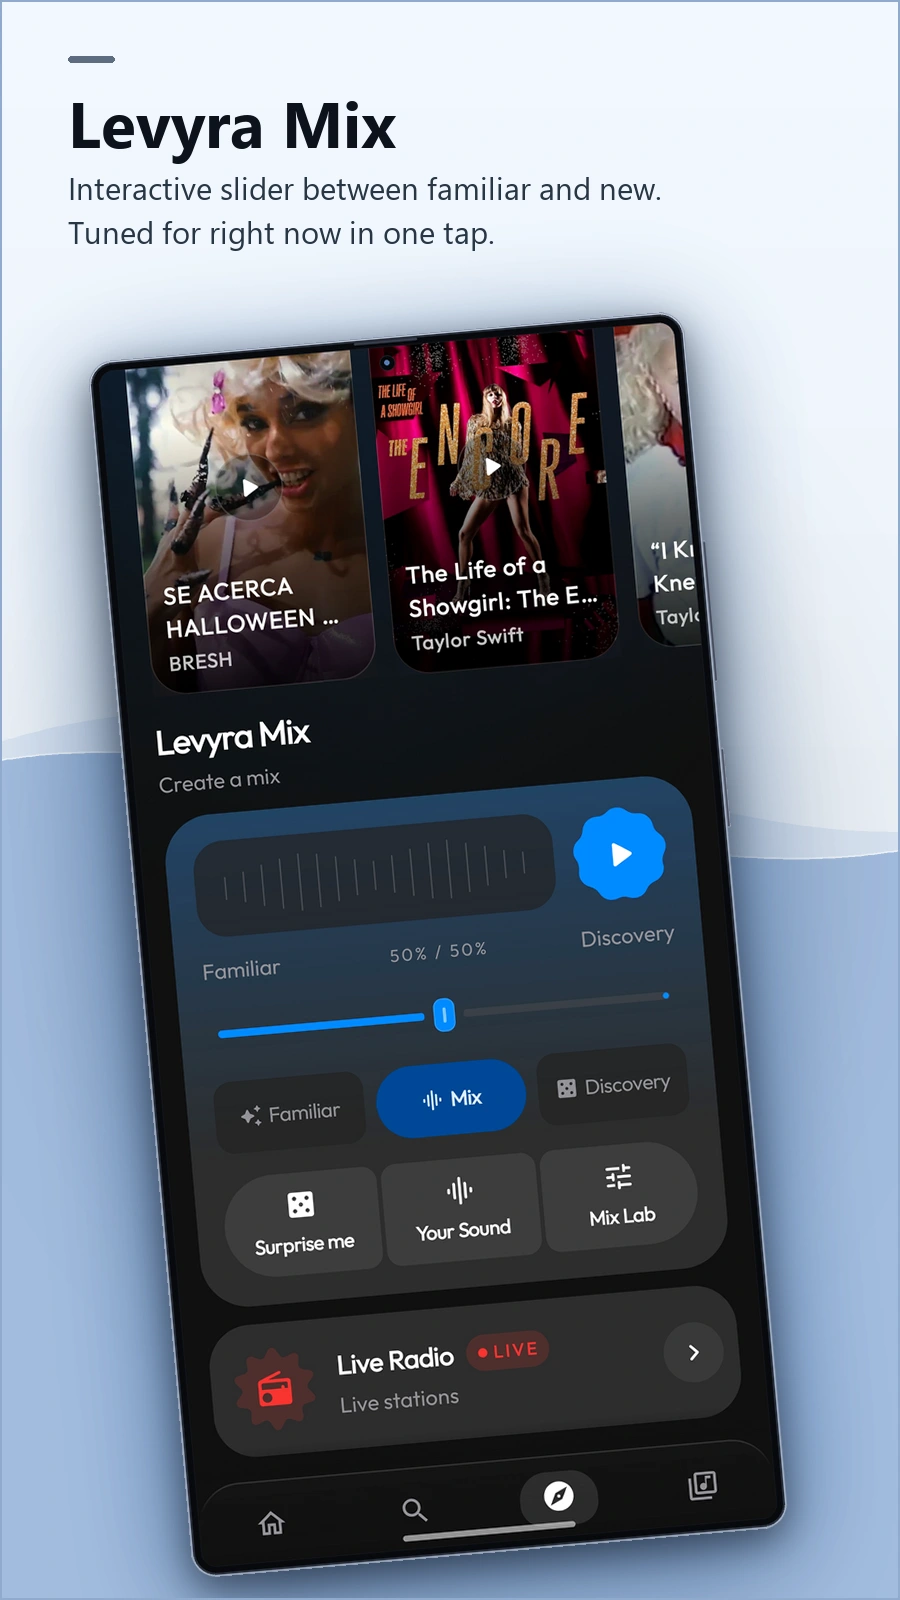
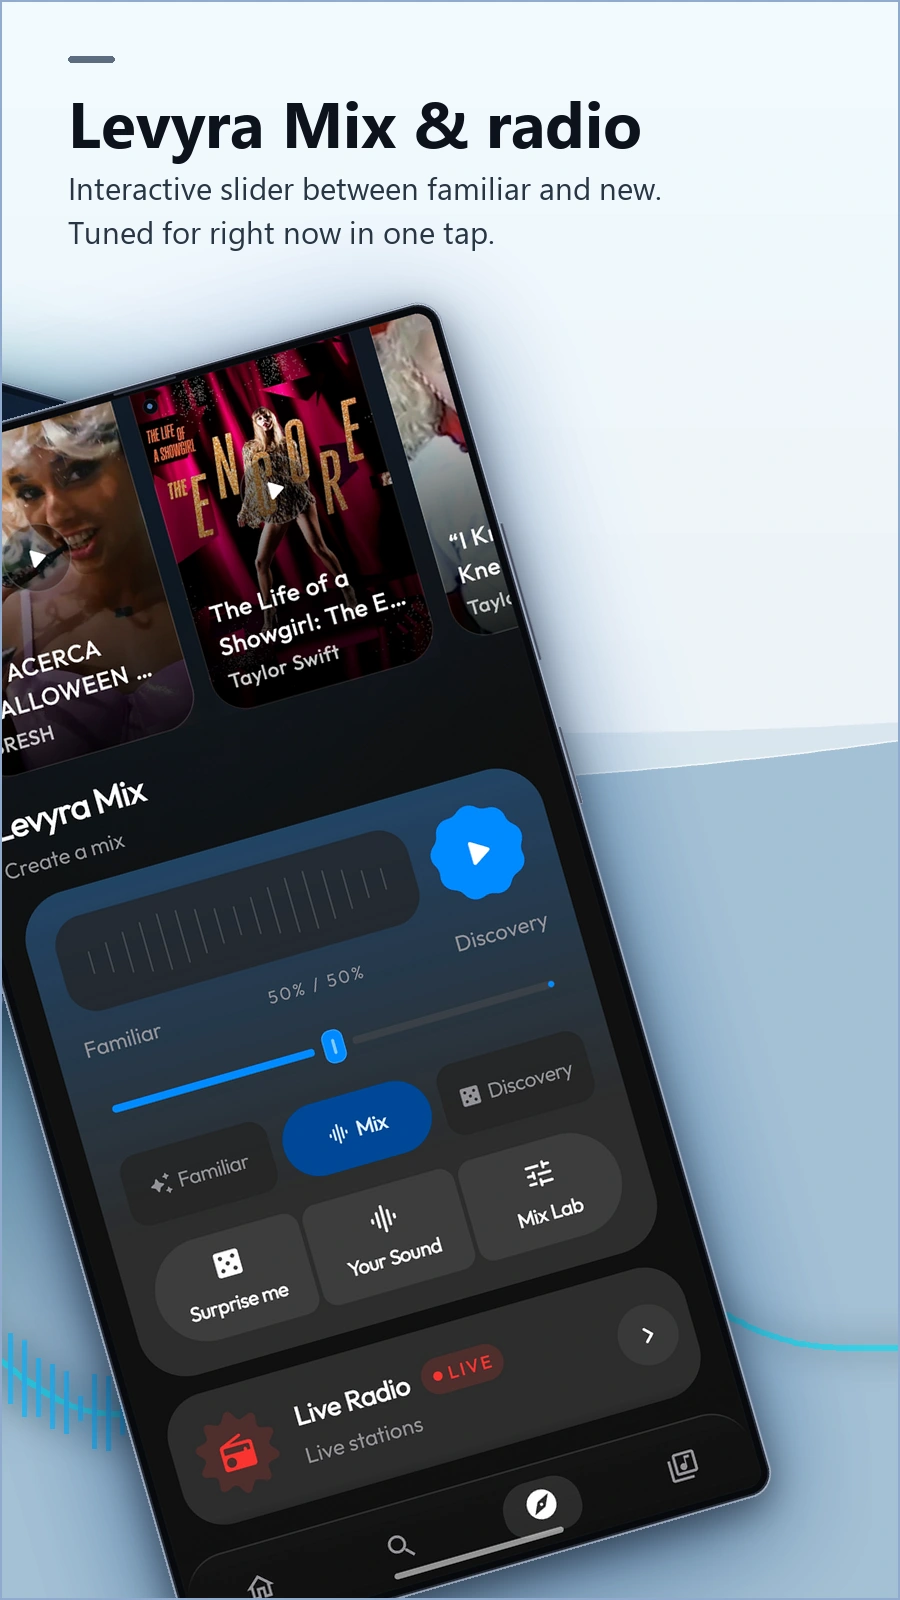
docs(readme): create 3D crossover diptych with glowing soundwave for Explore and Mix

diff --git a/scripts/generate_showcase_assets.py b/scripts/generate_showcase_assets.py
@@ -487,69 +487,111 @@ def generate_explore_mix_card(card_w, card_h):
     bg.convert("RGB").save(out_path, "WEBP", quality=94, method=4)
     print(f"Generated Dual Explore & Mix Card: {out_path}")
 
-def generate_explore_mix_duo(card_w, card_h):
+def generate_explore_mix_crossover(card_w, card_h):
     s1_path = resolve_screenshot_path("Screenshot_20261010_132210_LEVYRA.jpg")
     s2_path = resolve_screenshot_path("Screenshot_20261010_132217_LEVYRA.jpg")
     if not s1_path or not s2_path:
-        print("Skipping explore mix duo: missing screenshots")
+        print("Skipping explore mix crossover: missing screenshots")
         return
+
+    gutter = 20
+    pano_w = card_w * 2 + gutter
+    pano_h = card_h
 
     C_SEAFOAM = ((238, 246, 248), (166, 198, 202), (145, 188, 192))
     C_SAPPHIRE = ((238, 244, 252), (162, 188, 222), (140, 175, 215))
 
-    # Card 05: Explore & discover
-    bg5 = create_delicate_bg(card_w, card_h, C_SEAFOAM[0], C_SEAFOAM[1], C_SEAFOAM[2], y_start=850, y_end=760)
-    draw5 = ImageDraw.Draw(bg5)
-    draw_accent_pill(draw5, 68, 56, C_SEAFOAM[1])
-    draw5.text((68, 78), "Explore & discover", font=get_font(64, bold=True), fill=(12, 18, 28, 255))
-    draw5.multiline_text(
-        (68, 166),
+    pano_bg = create_delicate_bg(
+        pano_w,
+        pano_h,
+        top_tint=(238, 245, 250),
+        accent_tone=(164, 192, 212),
+        glow_tone=(142, 180, 205),
+        y_start=860,
+        y_end=740,
+    )
+
+    eq_layer = Image.new("RGBA", (pano_w, pano_h), (0, 0, 0, 0))
+    eq_draw = ImageDraw.Draw(eq_layer)
+
+    xs = np.linspace(0, pano_w, 400)
+    ys_center = 1350 + 55 * np.sin(xs * 0.007) + 22 * np.cos(xs * 0.018 + 0.8)
+    pts = [(int(x), int(y)) for x, y in zip(xs, ys_center)]
+    eq_draw.line(pts, fill=(0, 225, 245, 160), width=6)
+
+    np.random.seed(55)
+    for bx in range(650, 1170, 14):
+        dist_from_seam = abs(bx - 910)
+        max_h = max(20, int(110 - dist_from_seam * 0.28))
+        bh = np.random.randint(15, max_h)
+        by = int(1350 + 55 * np.sin(bx * 0.007) + 22 * np.cos(bx * 0.018 + 0.8))
+        r = int(0 + 40 * (bx / pano_w))
+        g = int(220 - 70 * (bx / pano_w))
+        b = 250
+        eq_draw.line([(bx, by - bh // 2), (bx, by + bh // 2)], fill=(r, g, b, 190), width=5)
+
+    eq_glow = eq_layer.filter(ImageFilter.GaussianBlur(16))
+    pano_bg = Image.alpha_composite(pano_bg, eq_glow)
+    pano_bg = Image.alpha_composite(pano_bg, eq_layer)
+
+    with Image.open(s1_path) as src1:
+        phone_exp = create_clean_phone(src1, target_height=1220)
+    with Image.open(s2_path) as src2:
+        phone_mix = create_clean_phone(src2, target_height=1220)
+
+    rot_exp = phone_exp.rotate(-16, resample=Image.Resampling.BICUBIC, expand=True)
+    rot_mix = phone_mix.rotate(16, resample=Image.Resampling.BICUBIC, expand=True)
+
+    exp_x = 160
+    exp_y = 260
+    mix_x = card_w + gutter - 150
+    mix_y = 295
+
+    g_exp, gp_exp = create_colored_glow(rot_exp, (0, 215, 235), blur=60, opacity=80, offset_y=18)
+    g_mix, gp_mix = create_colored_glow(rot_mix, (25, 130, 250), blur=65, opacity=85, offset_y=20)
+
+    pano_bg.paste(g_exp, (exp_x - gp_exp, exp_y - gp_exp), g_exp)
+    paste_phone_with_studio_depth(pano_bg, rot_exp, exp_x, exp_y)
+
+    pano_bg.paste(g_mix, (mix_x - gp_mix, mix_y - gp_mix), g_mix)
+    paste_phone_with_studio_depth(pano_bg, rot_mix, mix_x, mix_y)
+
+    pdraw = ImageDraw.Draw(pano_bg)
+
+    c1_tx, c1_ty = 68, 56
+    draw_accent_pill(pdraw, c1_tx, c1_ty, C_SEAFOAM[1])
+    pdraw.text((c1_tx, c1_ty + 22), "Explore & discover", font=get_font(64, bold=True), fill=(12, 18, 28, 255))
+    pdraw.multiline_text(
+        (c1_tx, c1_ty + 110),
         "Live radio, fresh currents, and\nsounds crafted for every moment.",
         font=get_font(31),
         fill=(40, 54, 68, 255),
         spacing=10,
     )
 
-    with Image.open(s1_path) as src1:
-        phone1 = create_clean_phone(src1, target_height=1200)
-    rot1 = phone1.rotate(-5, resample=Image.Resampling.BICUBIC, expand=True)
-    glow1, gp1 = create_colored_glow(rot1, (0, 205, 230), blur=55, opacity=70, offset_y=16)
-    px1 = (card_w - rot1.width) // 2 + 10
-    py1 = 310
-    bg5.paste(glow1, (px1 - gp1, py1 - gp1), glow1)
-    paste_phone_with_studio_depth(bg5, rot1, px1, py1)
-
-    border_col5 = tuple(max(0, int(C_SEAFOAM[1][i] - 18)) for i in range(3))
-    ImageDraw.Draw(bg5).rectangle((0, 0, card_w - 1, card_h - 1), outline=(*border_col5, 90), width=2)
-    bg5.convert("RGB").save(os.path.join(OUT_CARDS_DIR, "05_explore.webp"), "WEBP", quality=94, method=4)
-
-    # Card 06: Levyra Mix
-    bg6 = create_delicate_bg(card_w, card_h, C_SAPPHIRE[0], C_SAPPHIRE[1], C_SAPPHIRE[2], y_start=760, y_end=850)
-    draw6 = ImageDraw.Draw(bg6)
-    draw_accent_pill(draw6, 68, 56, C_SAPPHIRE[1])
-    draw6.text((68, 78), "Levyra Mix", font=get_font(64, bold=True), fill=(12, 18, 28, 255))
-    draw6.multiline_text(
-        (68, 166),
+    c2_left = card_w + gutter
+    c2_tx, c2_ty = c2_left + 68, 56
+    draw_accent_pill(pdraw, c2_tx, c2_ty, C_SAPPHIRE[1])
+    pdraw.text((c2_tx, c2_ty + 22), "Levyra Mix & radio", font=get_font(64, bold=True), fill=(12, 18, 28, 255))
+    pdraw.multiline_text(
+        (c2_tx, c2_ty + 110),
         "Interactive slider between familiar and new.\nTuned for right now in one tap.",
         font=get_font(31),
         fill=(40, 54, 68, 255),
         spacing=10,
     )
 
-    with Image.open(s2_path) as src2:
-        phone2 = create_clean_phone(src2, target_height=1200)
-    rot2 = phone2.rotate(5, resample=Image.Resampling.BICUBIC, expand=True)
-    glow2, gp2 = create_colored_glow(rot2, (25, 125, 245), blur=55, opacity=75, offset_y=16)
-    px2 = (card_w - rot2.width) // 2 - 10
-    py2 = 310
-    bg6.paste(glow2, (px2 - gp2, py2 - gp2), glow2)
-    paste_phone_with_studio_depth(bg6, rot2, px2, py2)
+    card_05 = pano_bg.crop((0, 0, card_w, card_h))
+    card_06 = pano_bg.crop((c2_left, 0, pano_w, card_h))
 
-    border_col6 = tuple(max(0, int(C_SAPPHIRE[1][i] - 18)) for i in range(3))
-    ImageDraw.Draw(bg6).rectangle((0, 0, card_w - 1, card_h - 1), outline=(*border_col6, 90), width=2)
-    bg6.convert("RGB").save(os.path.join(OUT_CARDS_DIR, "06_levyra_mix.webp"), "WEBP", quality=94, method=4)
+    b_col5 = tuple(max(0, int(C_SEAFOAM[1][i] - 18)) for i in range(3))
+    b_col6 = tuple(max(0, int(C_SAPPHIRE[1][i] - 18)) for i in range(3))
+    ImageDraw.Draw(card_05).rectangle((0, 0, card_w - 1, card_h - 1), outline=(*b_col5, 90), width=2)
+    ImageDraw.Draw(card_06).rectangle((0, 0, card_w - 1, card_h - 1), outline=(*b_col6, 90), width=2)
 
-    print("Generated Explore Duo Cards: 05_explore.webp, 06_levyra_mix.webp")
+    card_05.convert("RGB").save(os.path.join(OUT_CARDS_DIR, "05_explore.webp"), "WEBP", quality=94, method=4)
+    card_06.convert("RGB").save(os.path.join(OUT_CARDS_DIR, "06_levyra_mix.webp"), "WEBP", quality=94, method=4)
+    print("Generated 3D Crossover Diptych: 05_explore.webp, 06_levyra_mix.webp")
 
 def generate_feature_cards():
     card_w, card_h = 900, 1600
@@ -631,7 +673,7 @@ def generate_feature_cards():
     print("Generated Hero Cards: 01_home.webp, 02_stay_with_the_song.webp")
 
     generate_explore_mix_card(card_w, card_h)
-    generate_explore_mix_duo(card_w, card_h)
+    generate_explore_mix_crossover(card_w, card_h)
 
     C_CELESTE = ((238, 245, 250), (170, 196, 218), (148, 185, 210))
     C_SAGE = ((238, 246, 242), (168, 198, 188), (145, 185, 172))

diff --git a/README.md b/README.md
@@ -129,8 +129,8 @@ Enhanced Audio is on by default and can be turned off in Audio Settings. Technic
   <a href="docs/assets/showcase/cards/04_player_deck.webp"><img src="docs/assets/showcase/cards/04_player_deck.webp?v=s26ultra-20261010" width="200" alt="Levyra customizable player decks" /></a>
 </p>
 <p align="center">
-  <a href="docs/assets/showcase/cards/05_explore.webp"><img src="docs/assets/showcase/cards/05_explore.webp?v=s26ultra-duo-20261010" width="200" alt="Levyra explore and fresh currents" /></a>
-  <a href="docs/assets/showcase/cards/06_levyra_mix.webp"><img src="docs/assets/showcase/cards/06_levyra_mix.webp?v=s26ultra-duo-20261010" width="200" alt="Levyra custom mix and live radio" /></a>
+  <a href="docs/assets/showcase/cards/05_explore.webp"><img src="docs/assets/showcase/cards/05_explore.webp?v=s26ultra-crossover-20261010" width="200" alt="Levyra explore and fresh currents" /></a>
+  <a href="docs/assets/showcase/cards/06_levyra_mix.webp"><img src="docs/assets/showcase/cards/06_levyra_mix.webp?v=s26ultra-crossover-20261010" width="200" alt="Levyra custom mix and live radio" /></a>
   <a href="docs/assets/showcase/cards/07_genres.webp"><img src="docs/assets/showcase/cards/07_genres.webp?v=s26ultra-20261010" width="200" alt="Levyra moods and genres" /></a>
   <a href="docs/assets/showcase/cards/08_audio_tuning.webp"><img src="docs/assets/showcase/cards/08_audio_tuning.webp?v=s26ultra-20261010" width="200" alt="Levyra audio tuning and playback engine" /></a>
 </p>
